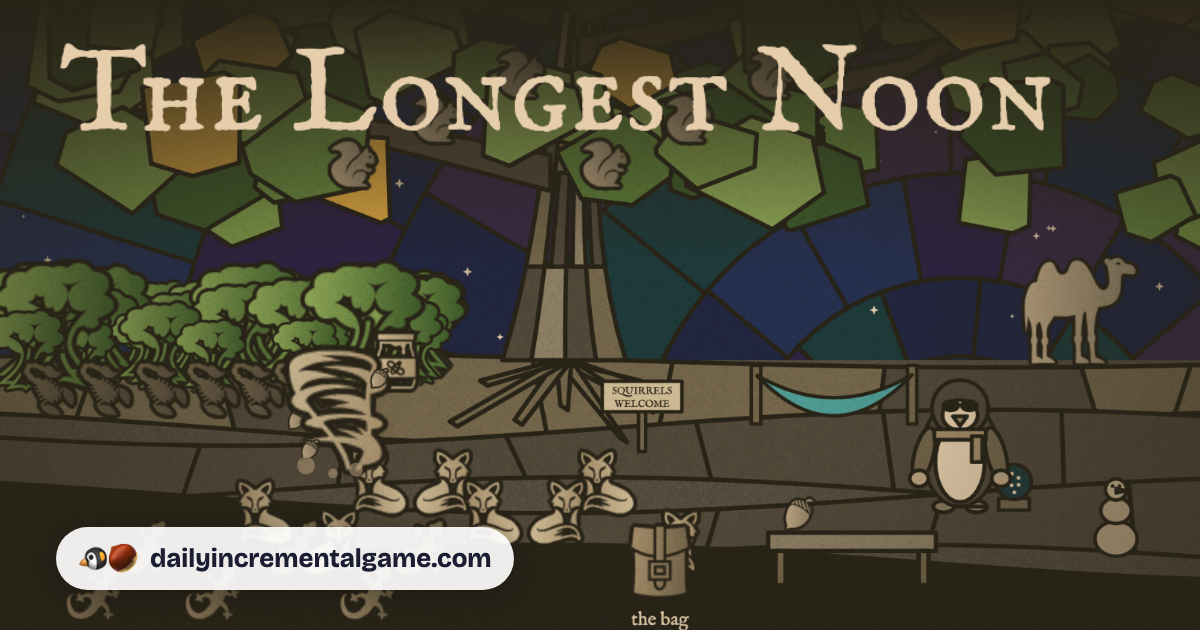
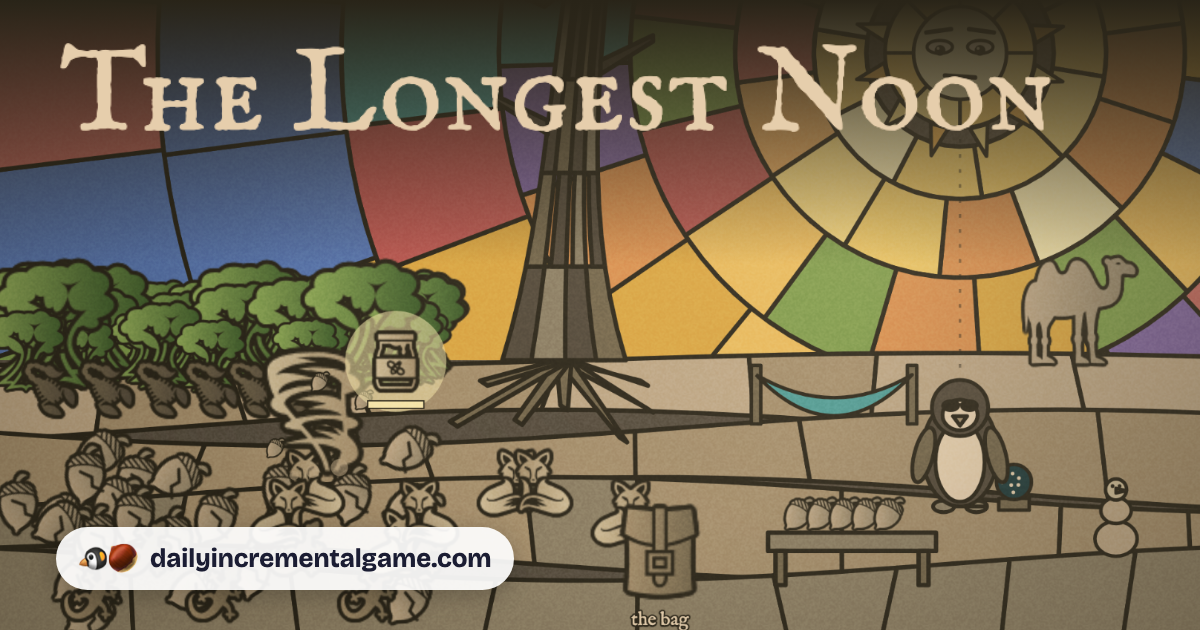
Social cards show a mid-game moment, not the ending
The Longest Noon's card showed night and the squirrels; Three Lemons' showed sunup. Cards are now
drawn from a per-game save in tools/cards.json (falling back to a finished save), and the new-game
steps say to pick one that gives nothing away.

diff --git a/public/the-longest-noon/index.html b/public/the-longest-noon/index.html
@@ -10,7 +10,7 @@
 <meta property="og:title" content="The Longest Noon">
 <meta property="og:description" content="It has been noon for 41 days. A penguin plants a forest to win a staring contest with the sun.">
 <meta property="og:url" content="https://dailyincrementalgame.com/the-longest-noon/">
-<meta property="og:image" content="https://dailyincrementalgame.com/the-longest-noon/og.png?v=f8413d7d">
+<meta property="og:image" content="https://dailyincrementalgame.com/the-longest-noon/og.png?v=d1afcb7e">
 <meta property="og:image:width" content="1200">
 <meta property="og:image:height" content="630">
 <meta property="og:image:alt" content="The Longest Noon: It has been noon for 41 days. A penguin plants a forest to win a staring contest with the sun.">

diff --git a/public/three-lemons/index.html b/public/three-lemons/index.html
@@ -10,7 +10,7 @@
 <meta property="og:title" content="Three Lemons">
 <meta property="og:description" content="A mole on the night shift sorts a billion lemons by touch, because a ferret promised to show it the sun.">
 <meta property="og:url" content="https://dailyincrementalgame.com/three-lemons/">
-<meta property="og:image" content="https://dailyincrementalgame.com/three-lemons/og.png?v=e353f27e">
+<meta property="og:image" content="https://dailyincrementalgame.com/three-lemons/og.png?v=7aaf77eb">
 <meta property="og:image:width" content="1200">
 <meta property="og:image:height" content="630">
 <meta property="og:image:alt" content="Three Lemons: A mole on the night shift sorts a billion lemons by touch, because a ferret promised to show it the sun.">

diff --git a/.claude/commands/new-game.md b/.claude/commands/new-game.md
@@ -56,6 +56,6 @@ human approval. Autonomous game delivery does not require inventing acceptance.
 
 4. Test it in a real browser. Run `npm run check -- <slug>` (first time on a machine: `npm install && npm run setup`). It checks that the ending and upgrades are hidden at the start, plays the opening, loads a finished save to check the ending and share card, checks for sideways scroll at 390px, and fails on console errors. Run `npm run mix -- <slug>` with a save for each phase and fix the levels until music sits near -24 dBFS and every effect peaks near -10 (show me the table). Also check that sound starts only after a gesture, and that a mid-game save (mid-phase or after a reset) resumes correctly. It relies on the conventions in CLAUDE.md (`#ending`, `#shareBtn`, upgrades as buttons in `#shop`, a save with `ended: true` resuming into the ending). Then look at every screenshot in tests/screenshots/ (including the sprite sheet and the credits panel) and fix anything that looks off. If the core interaction needs more than the script's generic drag-and-tap, play it with a short Playwright script of your own. For games with phases, load a save at the start of each phase, play that phase's action for real, and screenshot it; then buy the final upgrade live to watch the real ending.
 
-5. Add the entry to public/games.json, dated the day after the last one, with n, slug, title, tagline, emoji, scale and minutes (from the rolled length), plus `seed` and every rolled field except subject, verb and object, copied as is (`interaction`, `arc`, `length`, `structure`, `twist`, `ending`, `look`, `music`, `tone`, `context`; for a calendar nod, add `"topic"` to the context saying what it was, e.g. `"first frost"`), so the next roll can flag repeats. Rerun `npm run credits -- <slug>` (it picks up the palette from the entry). Then run `npm run og` to render its social card and refresh the landing card, look at public/<slug>/og.png, and rerun `npm run check -- <slug>`. Commit with a message naming the game and its seed.
+5. Add the entry to public/games.json, dated the day after the last one, with n, slug, title, tagline, emoji, scale and minutes (from the rolled length), plus `seed` and every rolled field except subject, verb and object, copied as is (`interaction`, `arc`, `length`, `structure`, `twist`, `ending`, `look`, `music`, `tone`, `context`; for a calendar nod, add `"topic"` to the context saying what it was, e.g. `"first frost"`), so the next roll can flag repeats. Rerun `npm run credits -- <slug>` (it picks up the palette from the entry). Then add a card save to tools/cards.json (a busy mid-game moment that doesn't spoil the ending), run `npm run og` to render its social card and refresh the landing card, look at public/<slug>/og.png to check it gives nothing away, and rerun `npm run check -- <slug>`. Commit with a message naming the game and its seed.
 
 $ARGUMENTS

diff --git a/CLAUDE.md b/CLAUDE.md
@@ -81,7 +81,7 @@ doesn't become the only kind of satisfaction.
 3. Build the game. Save state as one JSON object under `DailyGame.storageKey('save')` (which is
    `di:<n>:save`), merged over defaults on load, so that a save of just `{ "ended": true }` opens
    straight into the ending, drawn as the finished world (everything built), not an empty
-   scene. The browser check and the social card both rely on this.
+   scene. The browser check relies on this.
 4. When the player reaches the ending, call `DailyGame.finish({ lines: [...] })` exactly once
    (not again when a finished save is reloaded). The lines become the share card, joined with
    " · ". Keep them short and emoji-led: time, a headline number, one in-joke.
@@ -94,8 +94,10 @@ doesn't become the only kind of satisfaction.
    `context`, `palette`; for a calendar nod, add a `"topic"` saying what it was), so
    the next roll can flag repeats. `minutes` comes from the rolled length.
 7. Run `npm run credits -- <slug>` to write the game's credits.
-8. Run `npm run og` to render the game's social card (`public/<slug>/og.png`, the preview image in
-   chat apps) and write its meta tags, and look at the card. It also refreshes the landing card.
+8. Add a save for the game's social card to `tools/cards.json`: a busy mid-game moment that
+   never shows the ending (the card is the first thing people see, so it must not spoil it).
+   Then run `npm run og -- <slug>` to render the card (`public/<slug>/og.png`, the preview image in
+   chat apps) and write its meta tags, and look at the card.
 9. Run `npm run check -- <slug>` and look at the screenshots in `tests/screenshots/`. Then play it
    yourself: `npm run serve`, open http://localhost:8080/<slug>/, and play all the way through once
    with sound on and once in a phone-width window.

diff --git a/README.md b/README.md
@@ -91,7 +91,8 @@ sideways scroll at 390px, and fails on any console error. Screenshots go to `tes
 Each game has its own link preview: `public/<slug>/og.png` plus `og:`/`twitter:` meta tags in its
 page. `npm run og` renders cards for games that don't have one yet and refreshes the landing card;
 `npm run og -- <slug>` re-renders one game. Chat apps cache previews hard, so the image URL carries
-a content hash to make them refetch a changed card.
+a content hash to make them refetch a changed card. The card is drawn from the game's save in `tools/cards.json`, a mid-game
+moment chosen so the preview never spoils the ending (games without one fall back to a finished save).
 
 ## Local data
 
